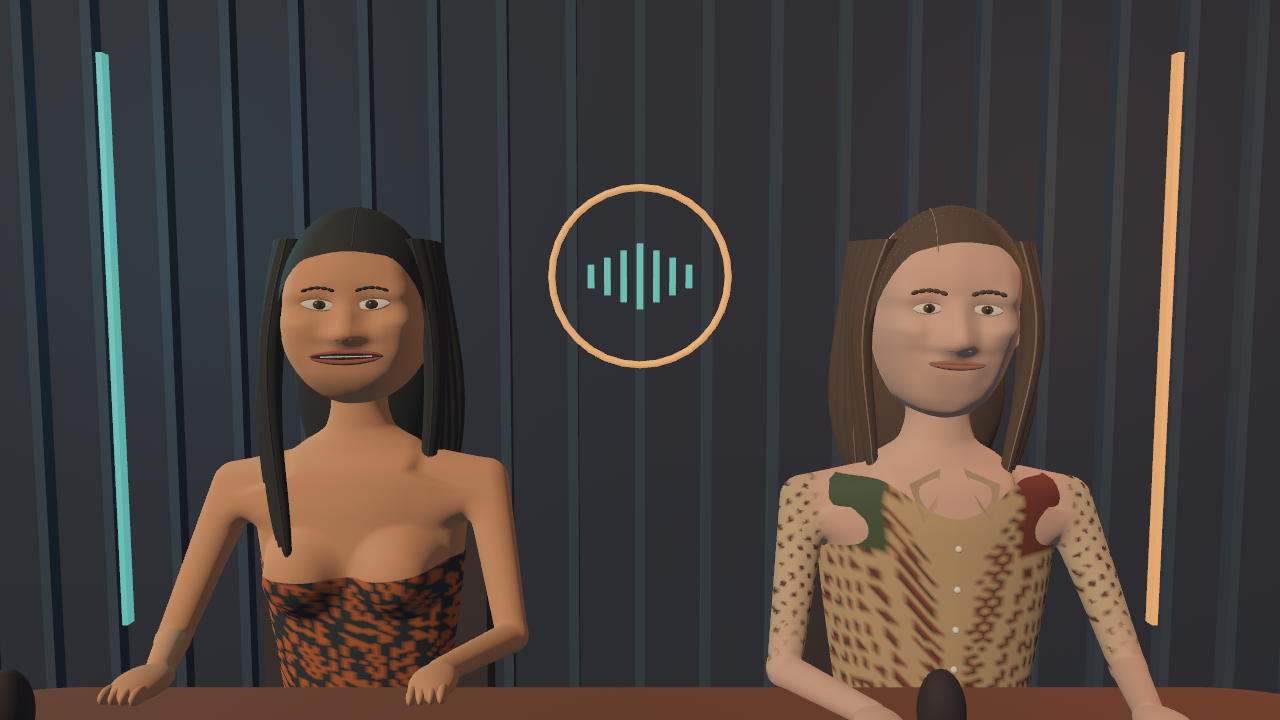
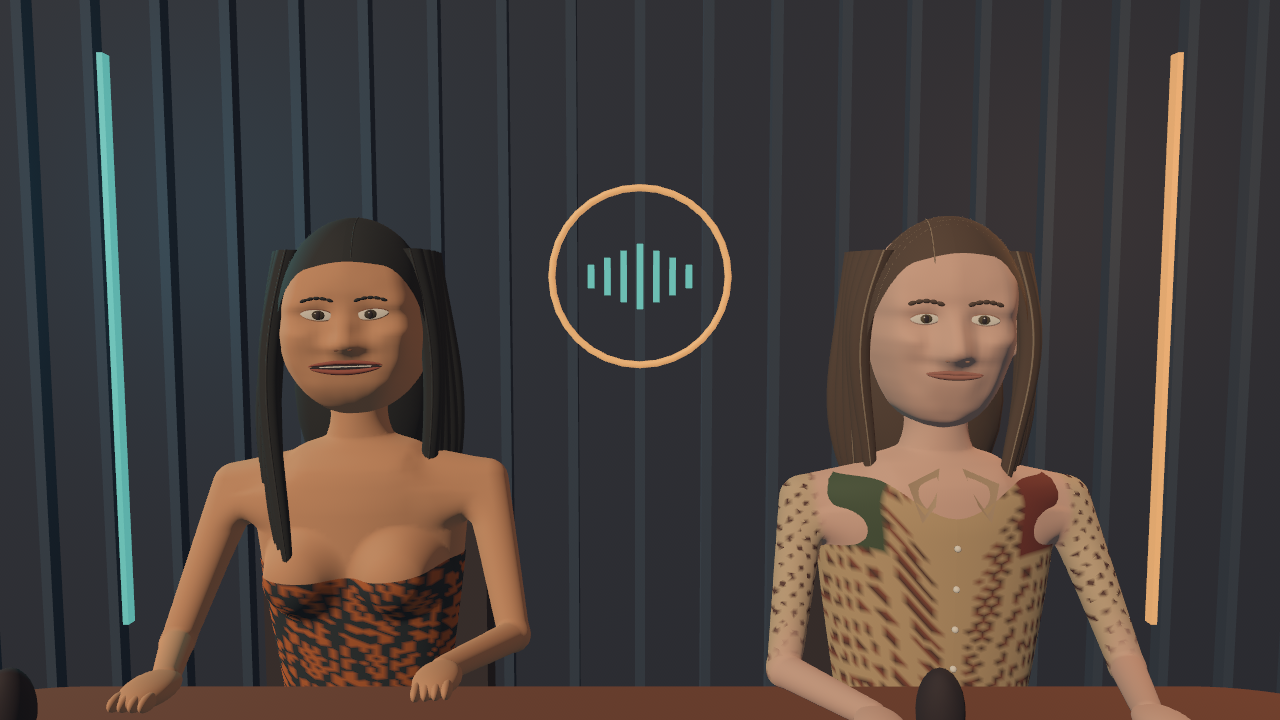
Lower heads and necks and soften front shoulder surfaces

diff --git a/src/studio/body.rs b/src/studio/body.rs
@@ -17,6 +17,8 @@ pub struct Surface {
 
 const SHOULDER_Y: f32 = 0.55;
 const SHOULDER_RADIUS: f32 = 0.061;
+pub const NECK_LOWERING: f32 = 0.025;
+const NECK_TOP_Y: f32 = 0.83 - NECK_LOWERING;
 const SHOULDER_TOP_Y: f32 = 0.6183;
 const CHEST_RADIUS_Y: f32 = 0.100;
 pub const CHEST_CENTER_Y: f32 = SHOULDER_TOP_Y - 3.0 * CHEST_RADIUS_Y;
@@ -59,9 +61,9 @@ pub fn profile(index: usize, height: f32) -> Vec2 {
         [0.55, 0.305, 0.145],
         [0.59, 0.285, 0.134],
         [0.64, 0.180, 0.095],
-        [0.70, 0.088, 0.076],
-        [0.76, 0.074, 0.075],
-        [0.83, 0.082, 0.078],
+        [0.70 - NECK_LOWERING, 0.088, 0.076],
+        [0.76 - NECK_LOWERING, 0.074, 0.075],
+        [NECK_TOP_Y, 0.082, 0.078],
     ];
     let interval = sections
         .partition_point(|section| section[0] < height)
@@ -151,7 +153,7 @@ fn torso_distance(index: usize, point: Vec3) -> f32 {
     let depth = point.z - chest_offset(index, point.x, point.y, point.z);
     let radial =
         (Vec2::new(point.x / profile.x, depth / profile.y).length() - 1.0) * profile.min_element();
-    radial.max(-0.10 - point.y).max(point.y - 0.83)
+    radial.max(-0.10 - point.y).max(point.y - NECK_TOP_Y)
 }
 
 fn capsule(point: Vec3, start: Vec3, end: Vec3, start_radius: f32, end_radius: f32) -> f32 {
@@ -203,7 +205,7 @@ fn body_distance(index: usize, point: Vec3) -> f32 {
     )
 }
 
-fn distance(index: usize, point: Vec3) -> f32 {
+fn upper_body_distance(index: usize, point: Vec3) -> f32 {
     let original = body_distance(index, point);
     let amount = smoothstep((point.y - 0.42) / 0.10);
     if amount == 0.0 {
@@ -242,9 +244,35 @@ fn distance(index: usize, point: Vec3) -> f32 {
         neck_width - point.x.abs(),
         0.025,
     );
-    let neck_blend = 0.035;
+    let neck_blend = 0.015 + 0.020 * (1.0 - smoothstep((point.y - 0.63) / 0.04));
     let upper_body = smooth_union(convex, neck, neck_blend);
     original + amount * (upper_body - original)
+}
+
+fn distance(index: usize, point: Vec3) -> f32 {
+    let original = upper_body_distance(index, point);
+    let amount = smoothstep((point.z - 0.045) / 0.030)
+        * smoothstep((point.y - 0.52) / 0.03)
+        * (1.0 - smoothstep((point.y - 0.61) / 0.04))
+        * smoothstep((point.x.abs() - 0.10) / 0.06)
+        * (1.0 - smoothstep((point.x.abs() - 0.30) / 0.07));
+    if amount == 0.0 {
+        return original;
+    }
+    let kernel = [(-0.025, 0.25), (0.0, 0.50), (0.025, 0.25)];
+    let mut smoothed = 0.0;
+    for (horizontal, horizontal_weight) in kernel {
+        for (vertical, vertical_weight) in kernel {
+            for (depth, depth_weight) in kernel {
+                smoothed +=
+                    upper_body_distance(index, point + Vec3::new(horizontal, vertical, depth))
+                        * horizontal_weight
+                        * vertical_weight
+                        * depth_weight;
+            }
+        }
+    }
+    original + amount * (smoothed - original)
 }
 
 fn weights(index: usize, point: Vec3) -> [f32; 4] {
@@ -423,7 +451,7 @@ impl Surface {
         }
         for (point, normal) in surface.positions.iter().zip(&mut surface.normals) {
             let point = Vec3::from_array(*point);
-            if (-0.08..0.81).contains(&point.y) {
+            if (-0.08..NECK_TOP_Y - 0.02).contains(&point.y) {
                 *normal = surface_normal(index, point).to_array();
             }
         }
@@ -581,10 +609,15 @@ mod tests {
         };
         for index in 0..2 {
             let original = variation(index, body_distance);
+            let unfiltered = variation(index, upper_body_distance);
             let smoothed = variation(index, distance);
             assert!(
                 smoothed < original * 0.80,
                 "host {index}: {smoothed} vs {original}"
+            );
+            assert!(
+                smoothed < unfiltered * 0.90,
+                "front smoothing: host {index}: {smoothed} vs {unfiltered}"
             );
         }
     }
@@ -866,13 +899,13 @@ mod tests {
         for index in 0..2 {
             let mut previous = profile(index, 0.55);
             for step in 1..=1000 {
-                let current = profile(index, 0.55 + step as f32 * 0.00021);
+                let current = profile(index, 0.55 + step as f32 * (0.21 - NECK_LOWERING) / 1000.0);
                 assert!(current.is_finite() && current.min_element() > 0.07);
                 assert!(current.x <= previous.x + 0.000001);
                 assert!(current.y <= previous.y + 0.000001);
                 previous = current;
             }
-            for height in [0.59, 0.64, 0.70] {
+            for height in [0.59, 0.64, 0.70 - NECK_LOWERING] {
                 let center = profile(index, height);
                 let before = (center - profile(index, height - 0.0001)) / 0.0001;
                 let after = (profile(index, height + 0.0001) - center) / 0.0001;

diff --git a/src/studio.rs b/src/studio.rs
@@ -329,7 +329,7 @@ fn host(
         }
     }
 
-    let head_rest = Transform::from_xyz(0.0, 0.74, 0.0);
+    let head_rest = Transform::from_xyz(0.0, 0.74 - body::NECK_LOWERING, 0.0);
     let head = commands.spawn((head_rest, Visibility::default())).id();
     commands.entity(root).add_child(head);
     animated(commands, head, index, PartKind::Head, head_rest);
@@ -824,6 +824,34 @@ pub fn setup(
 #[cfg(test)]
 mod tests {
     use super::*;
+
+    #[test]
+    fn lowered_heads_keep_their_neck_overlap_in_the_production_scene() {
+        let mut app = App::new();
+        app.init_resource::<Assets<Mesh>>()
+            .init_resource::<Assets<StandardMaterial>>()
+            .init_resource::<Assets<SkinnedMeshInverseBindposes>>()
+            .add_systems(Startup, setup);
+        app.update();
+        let world = app.world_mut();
+        let mut query = world.query::<(&AnimatedPart, &Transform)>();
+        let mut heads = 0;
+        for (part, transform) in query.iter(world) {
+            if !matches!(part.kind, PartKind::Head) {
+                continue;
+            }
+            assert!((transform.translation.y - 0.715).abs() < 0.00001);
+            assert_eq!(*transform, part.rest);
+            let neck_top = body::surface(part.host)
+                .positions
+                .iter()
+                .map(|point| point[1])
+                .fold(f32::NEG_INFINITY, f32::max);
+            assert!((neck_top - transform.translation.y - 0.09).abs() < 0.0001);
+            heads += 1;
+        }
+        assert_eq!(heads, 2);
+    }
 
     #[test]
     fn production_body_material_preserves_full_skin_vertex_colors() {

diff --git a/README.md b/README.md
@@ -33,6 +33,9 @@ OBS records the app window and the two audio channels.
   generation remains cached at startup, with no per-frame remeshing.
   The neck root tapers without an added collar-like bulge, and the full torso
   contour is retained below the armpits rather than pinched by the shoulder patch.
+  Heads and upper necks sit 25 mm lower, retaining their original overlap.
+  Local filtering softens the front shoulder surfaces without changing the
+  convex top outline, underarm clearance or torso width.
   Host 1's chest has
   two rounded, hemisphere-like contours with a central valley, shared by skin
   and top. The shoulder-to-chest gap equals the height of the rounded chest
